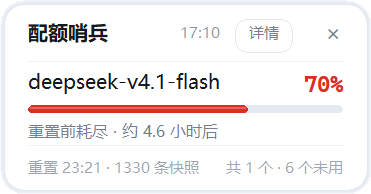
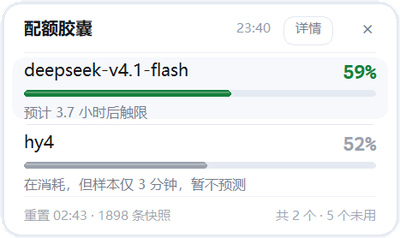
docs: 三张界面图重拍，标题改为「配额胶囊」
- card.png 换成按设计宽度展开的形态：模型名完整、带「详情」按钮，
  原来是避让输入框的窄卡，名字被截成 deepseek-...
- preview.py 新增 --full：关掉「展开时不压输入框」，截图宽度不再随
  当时输入框右缘浮动
- preview.py 截图前清掉报告窗的「保存为默认位置」chip
- 报告窗图重拍，仍排除交互态
- 三张图的文件宽度与 README 里的 width 属性对齐（226 / 400 / 720），
  不再由浏览器二次缩放

diff --git a/tools/preview.py b/tools/preview.py
@@ -3,8 +3,11 @@
 必用这个而不是屏幕截图：分层窗口（-transparentcolor）用 BitBlt 抓出来是全黑的。
 
 用法:
-    python tools/preview.py out.bmp [--dark] [--pill] [--report] [--hover]
+    python tools/preview.py out.bmp [--dark] [--pill] [--report] [--hover] [--full]
                                     [--home <伪造的 WORKBUDDY_HOME>] [--max-rows N]
+
+--full 关掉「展开时不压输入框」，卡片按设计宽度展开 —— 截图用，避免宽度随
+当时输入框的位置变化。
 """
 import ctypes
 import os
@@ -30,6 +33,9 @@ if PILL:
 REPORT = "--report" in rest
 if REPORT:
     rest.remove("--report")
+FULL = "--full" in rest
+if FULL:
+    rest.remove("--full")
 if "--home" in rest:
     i = rest.index("--home")
     os.environ["WORKBUDDY_HOME"] = rest[i + 1]
@@ -43,6 +49,11 @@ if dark:
 qt.enable_dpi_awareness()
 args = qt.build_parser().parse_args(["--always"] + rest)
 w = qt.TrayWindow(args)
+if FULL:
+    # 截图用：关掉「展开时不压输入框」，卡片按设计宽度 CARD_W 展开。
+    # 否则宽度取决于当时输入框右缘的位置，同一份代码在不同桌面下截出来宽窄不一。
+    w._avoid_input = False
+    w._plan_cache = None
 w.root.deiconify()
 w.root.update()
 
@@ -68,6 +79,12 @@ if REPORT:
     for _ in range(30):
         w.root.update()
         time.sleep(0.05)
+    # 截图不想要「保存为默认位置」那枚 chip —— 它只在拖过之后出现，属于交互状态
+    win = getattr(w, "_report_win", None)
+    if win is not None:
+        win._pos_dirty = False
+        win._render_head()
+        w.root.update()
 
 try:
     w.render()

diff --git a/README.md b/README.md
@@ -33,13 +33,13 @@ I searched GitHub and elsewhere for something that fit my needs and habits, and 
 
 Appears in the bottom-right corner once WorkBuddy is open. Shows the model used in the most recent conversation and how much of its window it has consumed.
 
-<p align="center"><img src="docs/images/pill.png" width="236" alt="Pill state"></p>
+<p align="center"><img src="docs/images/pill.png" width="226" alt="Pill state"></p>
 
 ### 2. Card
 
 Expands on hover. Lists up to 3 models, each with a progress bar and a one-line verdict — usage and runway for each model, at a glance.
 
-<p align="center"><img src="docs/images/card.png" width="378" alt="Expanded card"></p>
+<p align="center"><img src="docs/images/card.png" width="400" alt="Expanded card"></p>
 
 ### 3. Full report
 
